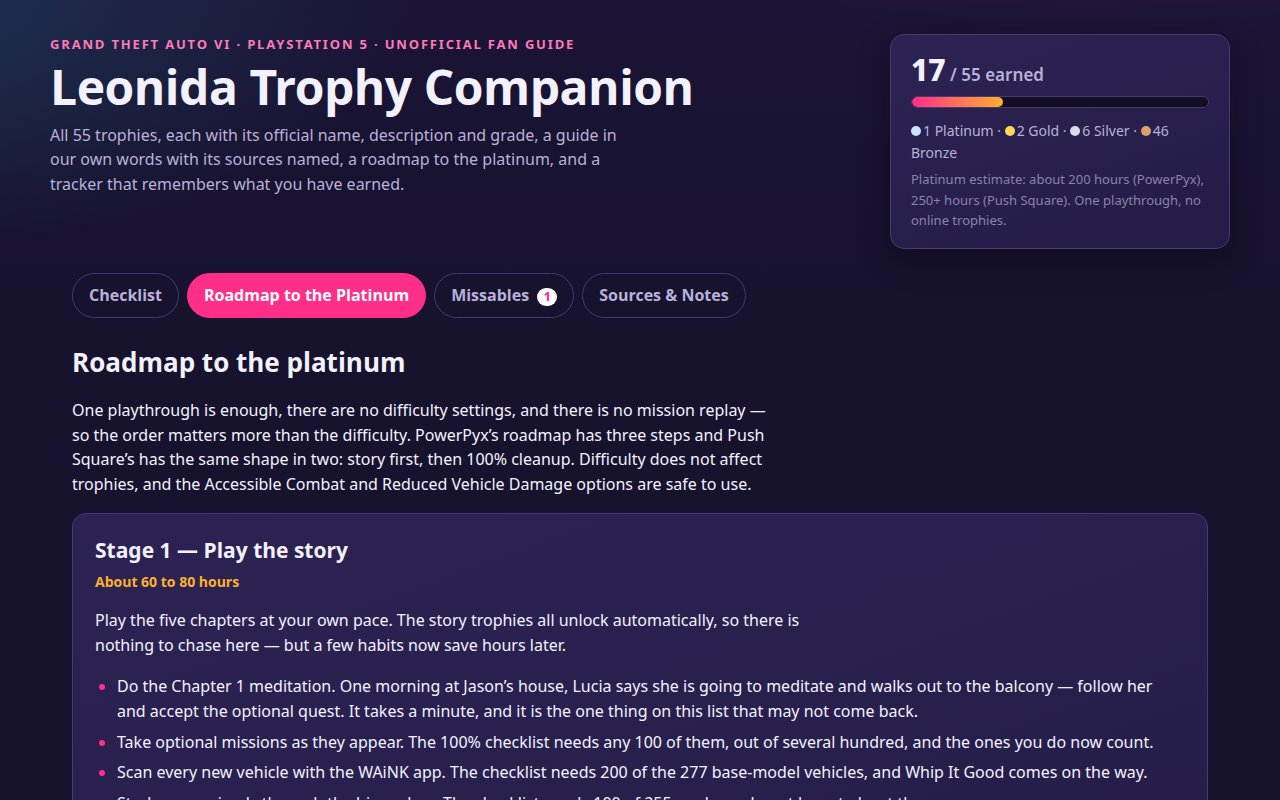
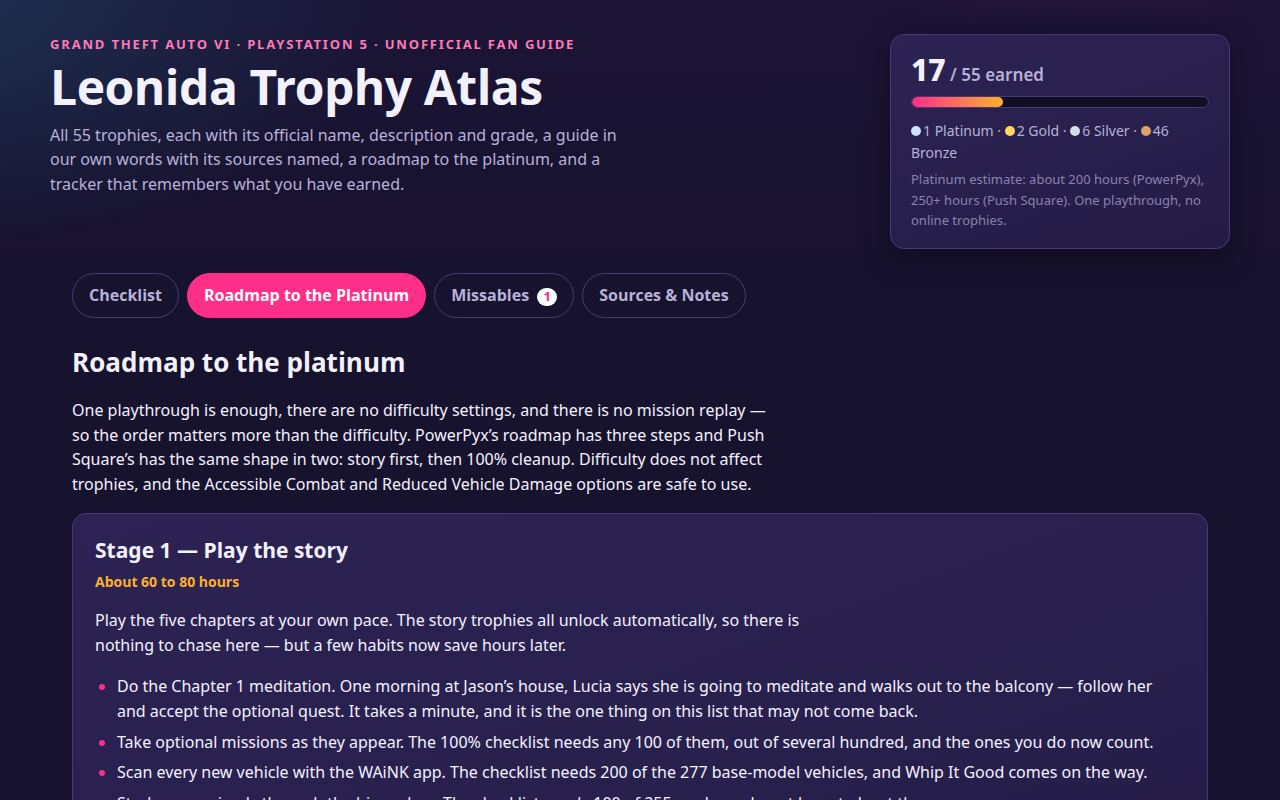
Leonida Trophy Atlas: fresh rebuild — 55 cited trophy guides, platinum roadmap, missables, spoiler-safe tracker

Changed region(s): [[0.3125, 0.0938, 0.5625, 0.1562]]

diff --git a/app/index.html b/app/index.html
@@ -3,7 +3,7 @@
 <head>
 <meta charset="utf-8">
 <meta name="viewport" content="width=device-width, initial-scale=1">
-<title>Leonida Trophy Companion — GTA VI Trophy Guide &amp; Tracker</title>
+<title>Leonida Trophy Atlas — GTA VI Trophy Guide &amp; Tracker</title>
 <meta name="description" content="An offline guide and tracker for all 55 PlayStation 5 trophies of Grand Theft Auto VI: cited guides, a roadmap to the platinum, missable flags and a spoiler-safe checklist.">
 <link rel="icon" href="favicon.svg" type="image/svg+xml">
 <link rel="stylesheet" href="style.css">
@@ -13,7 +13,7 @@
   <div class="masthead-inner">
     <div class="title-block">
       <p class="kicker">Grand Theft Auto VI &middot; PlayStation 5 &middot; Unofficial fan guide</p>
-      <h1>Leonida Trophy Companion</h1>
+      <h1>Leonida Trophy Atlas</h1>
       <p class="subtitle">All 55 trophies, each with its official name, description and grade, a guide in our own words with its sources named, a roadmap to the platinum, and a tracker that remembers what you have earned.</p>
     </div>
     <div class="progress-card" aria-label="Progress">
@@ -88,18 +88,18 @@
       <li><strong>PSNProfiles and TrueAchievements</strong> — the trophy and achievement trackers that cross-check the list, the counts and the hidden flags (28 hidden: the 12 story trophies and 16 side trophies).</li>
       <li><strong>Planet GTA 6 trophy list</strong> — the full list of 55 with official names and descriptions, taken from Exophase and cross-checked with PSNProfiles and TrueAchievements. <a href="https://www.planetgta6.com/en/gta-6-trophies/">planetgta6.com/en/gta-6-trophies/</a></li>
       <li><strong>One More Game trophy list</strong> — a second full listing of the 55, matching the others entry for entry. <a href="https://onemoregame.ph/2026/11/grand-theft-auto-vi-trophy-list/">onemoregame.ph</a></li>
-      <li><strong>Rockstar Games, GTA VI Trailer 2</strong> — the setting this guide is written around: Leonida, Vice City, Lucia and Jason. No Rockstar artwork or logo is used anywhere in this companion; the look is our own.</li>
+      <li><strong>Rockstar Games, GTA VI Trailer 2</strong> — the setting this guide is written around: Leonida, Vice City, Lucia and Jason. No Rockstar artwork or logo is used anywhere in this atlas; the look is our own.</li>
     </ul>
     <h2>How this guide is honest about what it does not know</h2>
     <p>The game has only just come out, and several methods are still unconfirmed by the guide writers. Where a method is unconfirmed — the Ocean Beach cocktail, the showroom smash, the Payday Loans link, the UFO questline, the motorcycle kick — the guide says so in plain words instead of inventing a step. Check back as PowerPyx and Push Square pin those down.</p>
     <h2>Offline, by design</h2>
-    <p>This companion is static files only. It loads nothing over the network at run time: the trophy data lives in the app itself, your progress lives in your browser's local storage, and export and import are files on your own machine. The links above open only when you follow them.</p>
+    <p>This atlas is static files only. It loads nothing over the network at run time: the trophy data lives in the app itself, your progress lives in your browser's local storage, and export and import are files on your own machine. The links above open only when you follow them.</p>
     <p class="disclaimer">Unofficial fan guide. Not affiliated with, endorsed by or connected to Rockstar Games, Take-Two Interactive or Sony Interactive Entertainment. Grand Theft Auto, GTA and Rockstar Games are trademarks of their owners. No official artwork, logos or game screenshots are used.</p>
   </section>
 </main>
 
 <footer class="colophon">
-  <p>Leonida Trophy Companion &middot; 55 trophies &middot; 1 platinum, 2 gold, 6 silver, 46 bronze &middot; 28 hidden &middot; 0 online &middot; MIT licensed</p>
+  <p>Leonida Trophy Atlas &middot; 55 trophies &middot; 1 platinum, 2 gold, 6 silver, 46 bronze &middot; 28 hidden &middot; 0 online &middot; MIT licensed</p>
 </footer>
 
 <script type="module" src="app.js"></script>

diff --git a/app/store.js b/app/store.js
@@ -3,7 +3,7 @@
 // (?demo=1) seeds 17 earned trophies in memory only and never touches the
 // real save, so screenshots never disturb a player's own progress.
 
-export const STORAGE_KEY = 'leonida-trophy-companion-v1';
+export const STORAGE_KEY = 'leonida-trophy-atlas-v1';
 
 // A plausible early-game save for screenshots: the opening, Chapters 1-3,
 // three story missions, and a handful of open-world trophies.
@@ -48,7 +48,7 @@ export function createStore(demo) {
       }
     },
     exportText() {
-      return JSON.stringify({ app: 'leonida-trophy-companion', version: 1, earned: [...earned].sort((a, b) => a - b) }, null, 2);
+      return JSON.stringify({ app: 'leonida-trophy-atlas', version: 1, earned: [...earned].sort((a, b) => a - b) }, null, 2);
     },
     // Returns { ok: true, count } or { ok: false, error }.
     importText(text) {

diff --git a/app/app.js b/app/app.js
@@ -1,4 +1,4 @@
-// Leonida Trophy Companion — bootstrap. Loads the trophy data, wires the
+// Leonida Trophy Atlas — bootstrap. Loads the trophy data, wires the
 // toolbar, the tabs and the tracker, and renders the checklist. URL params
 // drive the views screenshots use: ?tab=roadmap|missables|sources,
 // ?spoiler=1, ?demo=1 (a seeded in-memory save), ?open=<id> (open a guide).
@@ -81,7 +81,7 @@ function wireToolbar() {
     renderList();
   });
   $('exportBtn').addEventListener('click', () => {
-    downloadText('leonida-trophy-progress.json', store.exportText());
+    downloadText('leonida-trophy-atlas-progress.json', store.exportText());
   });
   $('importFile').addEventListener('change', async (event) => {
     const file = event.target.files[0];

diff --git a/main.ts b/main.ts
@@ -1,4 +1,4 @@
-// Leonida Trophy Companion — the hand-in program (Node 22, standard library
+// Leonida Trophy Atlas — the hand-in program (Node 22, standard library
 // only). The guide itself is plain static files: app/ holds the tracker, the
 // guides and the data, screenshots/ holds four real renders of it running.
 // This program copies both folders into the output directory and writes

diff --git a/app/style.css b/app/style.css
@@ -1,4 +1,4 @@
-/* Leonida Trophy Companion — a Vice City sunset look, drawn from scratch.
+/* Leonida Trophy Atlas — a Vice City sunset look, drawn from scratch.
    Deep indigo nights, neon pink and cyan, warm amber for gold. No images,
    no web fonts: system type and CSS gradients only, so the app works offline. */
 
